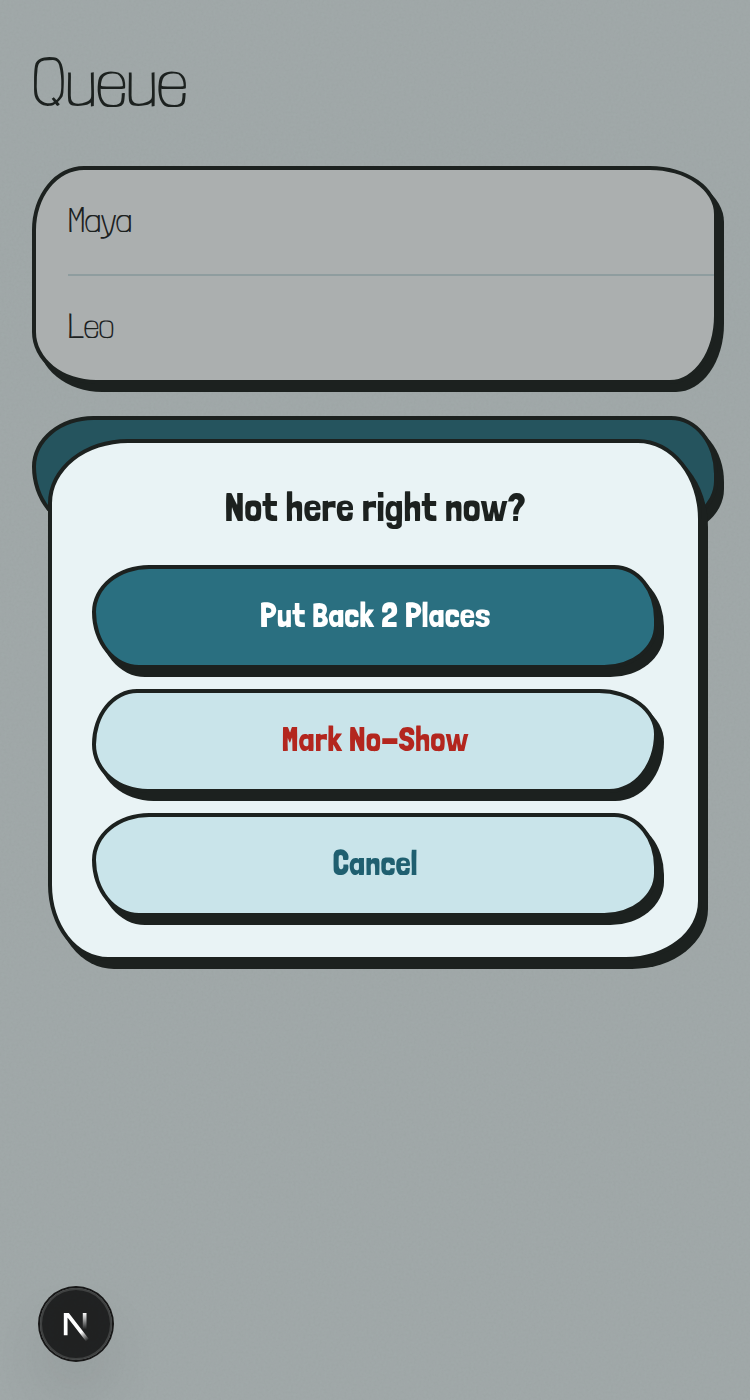
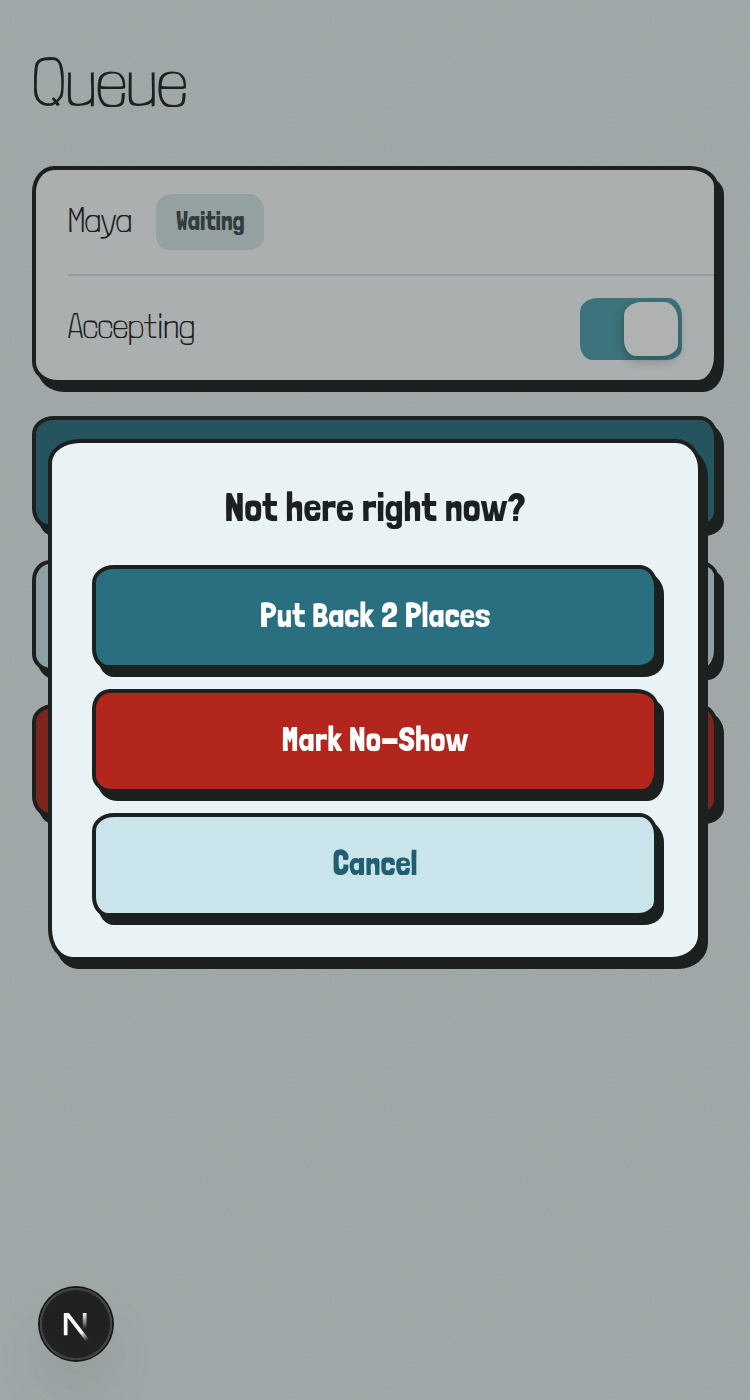
feat(web): square-ish controls, red destructive buttons
Claude-Session: https://claude.ai/code/session_01Ushnt7UGVZbyXoppf12xAJ

diff --git a/apps/web/app/globals.css b/apps/web/app/globals.css
@@ -30,6 +30,7 @@
   --glass-shadow: 0 8px 28px rgba(28, 33, 31, 0.14);
   --dim: rgba(28, 33, 31, 0.35);
   --outline: #1c211f;
+  --on-danger: #ffffff;
 
   --status-gray-bg: #d6e3e6;
   --status-gray-fg: #3b4a4d;
@@ -66,6 +67,7 @@
     --glass-shadow: 0 8px 28px rgba(0, 0, 0, 0.55);
     --dim: rgba(0, 0, 0, 0.55);
     --outline: #6d8a91;
+    --on-danger: #1c211f;
 
     --status-gray-bg: #37454a;
     --status-gray-fg: #dbe6e8;
@@ -105,6 +107,7 @@
   --color-switch-on: var(--switch-on);
   --color-ring: var(--ring);
   --color-outline: var(--outline);
+  --color-on-danger: var(--on-danger);
   --color-dim: var(--dim);
   --color-track: var(--track);
 
@@ -196,31 +199,39 @@ body {
    with a few variants cycled by position so neighbours are never identical.
    Pair with .sticker for the hand-printed outline + offset shadow. */
 .shape-card {
-  border-radius: 34px 26px 32px 24px / 26px 34px 24px 32px;
+  border-radius: 14px 11px 13px 10px / 10px 13px 11px 14px;
 }
 .shape-card:nth-child(3n + 2) {
-  border-radius: 26px 34px 24px 32px / 32px 24px 34px 26px;
+  border-radius: 11px 14px 10px 13px / 13px 10px 14px 11px;
 }
 .shape-card:nth-child(3n) {
-  border-radius: 30px 30px 36px 24px / 34px 26px 30px 32px;
+  border-radius: 12px 12px 14px 10px / 14px 10px 12px 12px;
 }
 
 .shape-tile {
-  border-radius: 24px 18px 22px 16px / 18px 24px 16px 22px;
+  border-radius: 10px 8px 9px 7px / 8px 10px 7px 9px;
 }
 .shape-tile:nth-child(2n) {
-  border-radius: 18px 24px 16px 22px / 22px 16px 24px 18px;
+  border-radius: 8px 10px 7px 9px / 9px 7px 10px 8px;
 }
 
 .shape-btn {
-  border-radius: 34px 26px 32px 28px / 28px 32px 26px 34px;
+  border-radius: 11px 9px 10px 8px / 9px 11px 8px 10px;
 }
 .shape-btn:nth-child(2n) {
-  border-radius: 26px 34px 28px 32px / 32px 26px 34px 28px;
+  border-radius: 9px 11px 8px 10px / 10px 8px 11px 9px;
+}
+
+/* Small controls: icon buttons, keypad, chips, steppers, number badges. */
+.shape-sq {
+  border-radius: 9px 7px 8px 6px / 7px 9px 6px 8px;
+}
+.shape-sq:nth-child(2n) {
+  border-radius: 7px 9px 6px 8px / 8px 6px 9px 7px;
 }
 
 .shape-modal {
-  border-radius: 40px 32px 38px 30px / 32px 40px 30px 38px;
+  border-radius: 16px 13px 15px 12px / 12px 15px 13px 16px;
 }
 
 .sticker {

diff --git a/apps/web/app/login/page.tsx b/apps/web/app/login/page.tsx
@@ -109,7 +109,7 @@ function LoginForm() {
           {Array.from({ length: PIN_LENGTH }, (_, index) => (
             <span
               key={index}
-              className="h-[13px] w-[13px] rounded-full border-[1.5px] border-label"
+              className="h-[13px] w-[13px] rounded-[3px] border-[1.5px] border-label"
               style={{ background: index < pin.length ? "var(--label)" : "transparent" }}
             />
           ))}
@@ -133,7 +133,7 @@ function LoginForm() {
             type="button"
             onClick={() => pressDigit(digit)}
             disabled={mutation.isPending}
-            className="h-20 w-20 cursor-pointer rounded-full bg-fill text-[34px] font-normal text-label disabled:cursor-default disabled:opacity-50"
+            className="h-20 w-20 cursor-pointer shape-sq sticker bg-fill text-[34px] font-normal text-label disabled:cursor-default disabled:opacity-50"
           >
             {digit}
           </button>
@@ -143,7 +143,7 @@ function LoginForm() {
           type="button"
           onClick={() => pressDigit("0")}
           disabled={mutation.isPending}
-          className="h-20 w-20 cursor-pointer rounded-full bg-fill text-[34px] font-normal text-label disabled:cursor-default disabled:opacity-50"
+          className="h-20 w-20 cursor-pointer shape-sq sticker bg-fill text-[34px] font-normal text-label disabled:cursor-default disabled:opacity-50"
         >
           0
         </button>

diff --git a/apps/web/components/admin/TicketSheet.tsx b/apps/web/components/admin/TicketSheet.tsx
@@ -55,14 +55,14 @@ export function TicketSheet({ ticket, positionLabel, onClose, onEdit, onShowQr, 
           <button
             type="button"
             onClick={onEdit}
-            className="h-11 cursor-pointer rounded-full bg-fill px-4 text-[17px] font-semibold text-link"
+            className="h-11 cursor-pointer shape-sq bg-fill px-4 text-[17px] font-semibold text-link"
           >
             Edit
           </button>
         }
       >
           <div className="flex items-center gap-3.5 px-1">
-            <span className="flex h-14 w-14 shrink-0 items-center justify-center rounded-full bg-fill text-[22px] font-bold tabular-nums">
+            <span className="flex h-14 w-14 shrink-0 items-center justify-center shape-sq bg-fill text-[22px] font-bold tabular-nums">
               {ticket.number}
             </span>
             <div className="flex flex-col gap-1">
@@ -83,7 +83,7 @@ export function TicketSheet({ ticket, positionLabel, onClose, onEdit, onShowQr, 
                 <a
                   href={`tel:${ticket.phone}`}
                   aria-label={`Call ${ticket.name}`}
-                  className="flex h-11 w-11 items-center justify-center rounded-full bg-fill text-link"
+                  className="flex h-11 w-11 items-center justify-center shape-sq bg-fill text-link"
                 >
                   <Phone className="h-[18px] w-[18px]" strokeWidth={2} aria-hidden="true" />
                 </a>

diff --git a/apps/web/components/admin/WaitingSection.tsx b/apps/web/components/admin/WaitingSection.tsx
@@ -182,7 +182,7 @@ export function WaitingSection({
                   >
                     <GripVertical className="h-5 w-5" strokeWidth={2} aria-hidden="true" />
                   </span>
-                  <span className="flex h-11 w-11 shrink-0 items-center justify-center rounded-full bg-fill text-[17px] font-bold tabular-nums">
+                  <span className="flex h-11 w-11 shrink-0 items-center justify-center shape-sq bg-fill text-[17px] font-bold tabular-nums">
                     {ticket.number}
                   </span>
                   <span className="flex min-w-0 flex-grow flex-col gap-0.5">
@@ -197,7 +197,7 @@ export function WaitingSection({
                   className="flex w-full cursor-pointer items-center gap-3 bg-transparent px-3 py-2 pl-3.5 text-left"
                   style={{ minHeight: 62 }}
                 >
-                  <span className="flex h-11 w-11 shrink-0 items-center justify-center rounded-full bg-fill text-[17px] font-bold tabular-nums">
+                  <span className="flex h-11 w-11 shrink-0 items-center justify-center shape-sq bg-fill text-[17px] font-bold tabular-nums">
                     {ticket.number}
                   </span>
                   <span className="flex min-w-0 flex-grow flex-col gap-0.5">

diff --git a/apps/web/components/ui/QrFullscreen.tsx b/apps/web/components/ui/QrFullscreen.tsx
@@ -28,7 +28,7 @@ export function QrFullscreen({ number, name, url, onCopyLink, onDone }: QrFullsc
         <button
           type="button"
           onClick={onDone}
-          className="glass h-11 cursor-pointer rounded-full px-[18px] text-[17px] font-semibold text-link"
+          className="glass h-11 cursor-pointer shape-sq px-[18px] text-[17px] font-semibold text-link"
         >
           Done
         </button>
@@ -50,11 +50,11 @@ export function QrFullscreen({ number, name, url, onCopyLink, onDone }: QrFullsc
       </p>
       <p className="m-0 text-center font-mono text-[13px] text-label-2">{displayUrl(url)}</p>
 
-      <div className="fixed inset-x-3 bottom-6 glass rounded-full p-1.5">
+      <div className="fixed inset-x-3 bottom-6 glass shape-sq p-1.5">
         <button
           type="button"
           onClick={onCopyLink}
-          className="flex h-[52px] w-full cursor-pointer items-center justify-center gap-2 rounded-full bg-fill text-[15px] font-semibold text-link"
+          className="flex h-[52px] w-full cursor-pointer items-center justify-center gap-2 shape-sq bg-fill text-[15px] font-semibold text-link"
         >
           <Copy className="h-[18px] w-[18px]" strokeWidth={2} aria-hidden="true" />
           Copy Link

diff --git a/apps/web/components/illustrator/IllustratorScreen.tsx b/apps/web/components/illustrator/IllustratorScreen.tsx
@@ -104,7 +104,7 @@ export function IllustratorScreen() {
         type="button"
         aria-label="New Ticket"
         onClick={() => setOverlay({ type: "newTicket" })}
-        className="fixed bottom-[92px] right-4 z-40 flex h-14 w-14 cursor-pointer items-center justify-center rounded-full bg-pop text-on-pop shadow-[0_6px_16px_rgba(235,172,31,0.5)]"
+        className="fixed bottom-[92px] right-4 z-40 flex h-14 w-14 cursor-pointer items-center justify-center shape-sq bg-pop text-on-pop shadow-[0_6px_16px_rgba(235,172,31,0.5)]"
       >
         <Plus className="h-6 w-6" strokeWidth={2.5} aria-hidden="true" />
       </button>
@@ -114,7 +114,7 @@ export function IllustratorScreen() {
           type="button"
           onClick={() => setOverlay({ type: "break" })}
           disabled={day.paused}
-          className="flex h-11 cursor-pointer items-center gap-1.5 rounded-full bg-fill px-4 text-[15px] font-semibold text-link disabled:cursor-default disabled:opacity-50"
+          className="flex h-11 cursor-pointer items-center gap-1.5 shape-sq bg-fill px-4 text-[15px] font-semibold text-link disabled:cursor-default disabled:opacity-50"
         >
           <Coffee className="h-4 w-4" strokeWidth={2} aria-hidden="true" />
           Break

diff --git a/apps/web/components/admin/Stepper.tsx b/apps/web/components/admin/Stepper.tsx
@@ -16,7 +16,7 @@ export function Stepper({ value, onChange, min = 0, max = 10, ...rest }: Stepper
         onClick={() => onChange(Math.max(min, value - 1))}
         disabled={value <= min}
         aria-label="Decrease"
-        className="flex h-8 w-8 cursor-pointer items-center justify-center rounded-full bg-fill text-label disabled:cursor-default disabled:opacity-30"
+        className="flex h-8 w-8 cursor-pointer items-center justify-center shape-sq bg-fill text-label disabled:cursor-default disabled:opacity-30"
       >
         <Minus className="h-4 w-4" strokeWidth={2} aria-hidden="true" />
       </button>
@@ -26,7 +26,7 @@ export function Stepper({ value, onChange, min = 0, max = 10, ...rest }: Stepper
         onClick={() => onChange(Math.min(max, value + 1))}
         disabled={value >= max}
         aria-label="Increase"
-        className="flex h-8 w-8 cursor-pointer items-center justify-center rounded-full bg-fill text-label disabled:cursor-default disabled:opacity-30"
+        className="flex h-8 w-8 cursor-pointer items-center justify-center shape-sq bg-fill text-label disabled:cursor-default disabled:opacity-30"
       >
         <Plus className="h-4 w-4" strokeWidth={2} aria-hidden="true" />
       </button>

diff --git a/apps/web/components/customer/CustomerScreen.tsx b/apps/web/components/customer/CustomerScreen.tsx
@@ -138,8 +138,8 @@ export function CustomerScreen({ token }: { token: string }) {
             <span
               className={
                 view.almostUp
-                  ? "rounded-full bg-status-orange-bg px-2.5 py-1 text-[13px] font-semibold text-status-orange-fg"
-                  : "rounded-full bg-status-gray-bg px-2.5 py-1 text-[13px] font-semibold text-status-gray-fg"
+                  ? "shape-sq bg-status-orange-bg px-2.5 py-1 text-[13px] font-semibold text-status-orange-fg"
+                  : "shape-sq bg-status-gray-bg px-2.5 py-1 text-[13px] font-semibold text-status-gray-fg"
               }
             >
               {view.almostUp ? "Almost up" : "In line"}
@@ -241,7 +241,7 @@ export function CustomerScreen({ token }: { token: string }) {
           <button
             type="button"
             onClick={handleCopyLink}
-            className="flex h-11 cursor-pointer items-center gap-2 rounded-full bg-fill px-5 text-[15px] font-semibold text-link"
+            className="flex h-11 cursor-pointer items-center gap-2 shape-sq bg-fill px-5 text-[15px] font-semibold text-link"
           >
             <Copy className="h-4 w-4" strokeWidth={2} aria-hidden="true" />
             Copy Link

diff --git a/apps/web/components/admin/NowCard.tsx b/apps/web/components/admin/NowCard.tsx
@@ -20,7 +20,7 @@ export function NowCard({ ticket, onOpen }: NowCardProps) {
           <GroupedRow minHeight={64} onClick={() => onOpen(ticket.id)}>
             <span
               className={clsx(
-                "flex h-11 w-11 shrink-0 items-center justify-center rounded-full text-[17px] font-bold tabular-nums",
+                "flex h-11 w-11 shrink-0 items-center justify-center shape-sq text-[17px] font-bold tabular-nums",
                 serving ? "bg-status-blue-bg text-status-blue-fg" : "bg-status-orange-bg text-status-orange-fg",
               )}
             >
@@ -38,7 +38,7 @@ export function NowCard({ ticket, onOpen }: NowCardProps) {
             </span>
             <span
               className={clsx(
-                "shrink-0 rounded-full px-2.5 py-[5px] text-[13px] font-semibold tabular-nums",
+                "shrink-0 shape-sq px-2.5 py-[5px] text-[13px] font-semibold tabular-nums",
                 serving ? "bg-status-blue-bg text-status-blue-fg" : "bg-status-orange-bg text-status-orange-fg",
               )}
             >

diff --git a/apps/web/components/ui/Switch.tsx b/apps/web/components/ui/Switch.tsx
@@ -17,14 +17,14 @@ export function Switch({ checked, onChange, disabled, className, ...rest }: Swit
       disabled={disabled}
       onClick={() => onChange(!checked)}
       className={clsx(
-        "relative h-[31px] w-[51px] shrink-0 cursor-pointer rounded-full transition-colors disabled:cursor-default disabled:opacity-50",
+        "relative h-[31px] w-[51px] shrink-0 cursor-pointer shape-sq transition-colors disabled:cursor-default disabled:opacity-50",
         checked ? "bg-switch-on" : "bg-track",
         className,
       )}
       {...rest}
     >
       <span
-        className="absolute left-0 top-[2px] h-[27px] w-[27px] rounded-full bg-white shadow-[0_2px_6px_rgba(0,0,0,0.3)] transition-transform"
+        className="absolute left-0 top-[2px] h-[27px] w-[27px] shape-sq bg-white shadow-[0_2px_6px_rgba(0,0,0,0.3)] transition-transform"
         style={{ transform: checked ? "translateX(22px)" : "translateX(2px)" }}
       />
     </button>

diff --git a/apps/web/components/ui/SegmentedControl.tsx b/apps/web/components/ui/SegmentedControl.tsx
@@ -18,7 +18,7 @@ export function SegmentedControl<T extends string>({
   return (
     <div
       role="tablist"
-      className={clsx("grid gap-0.5 rounded-full bg-fill p-[3px]", className)}
+      className={clsx("grid gap-0.5 shape-sq bg-fill p-[3px]", className)}
       style={{ gridTemplateColumns: `repeat(${options.length}, minmax(0, 1fr))` }}
     >
       {options.map((option) => {
@@ -32,7 +32,7 @@ export function SegmentedControl<T extends string>({
             aria-pressed={selected}
             onClick={() => onChange(option.value)}
             className={clsx(
-              "h-10 cursor-pointer rounded-full text-[15px]",
+              "h-10 cursor-pointer shape-sq text-[15px]",
               selected
                 ? "bg-card font-semibold text-label shadow-[0_2px_8px_rgba(0,0,0,0.12)]"
                 : "bg-transparent font-medium text-label",

diff --git a/apps/web/components/admin/AdminHeader.tsx b/apps/web/components/admin/AdminHeader.tsx
@@ -28,8 +28,8 @@ export function AdminHeader({ day, waitingCount, avgSessionLabel, projectedFinis
   return (
     <div className="flex flex-col gap-3">
       <header className="flex h-11 items-center justify-between px-1">
-        <span className={`flex items-center gap-1.5 rounded-full px-[11px] py-1.5 text-[13px] font-semibold ${chip.bg} ${chip.fg}`}>
-          {chip.dot ? <span className={`h-[7px] w-[7px] rounded-full ${chip.dot}`} /> : null}
+        <span className={`flex items-center gap-1.5 shape-sq px-[11px] py-1.5 text-[13px] font-semibold ${chip.bg} ${chip.fg}`}>
+          {chip.dot ? <span className={`h-[7px] w-[7px] rounded-[3px] ${chip.dot}`} /> : null}
           {chip.label}
         </span>
         <GlassIconButton icon={<MoreHorizontal className="h-[22px] w-[22px]" strokeWidth={2} aria-hidden="true" />} onClick={onMenu} aria-label="More" />
